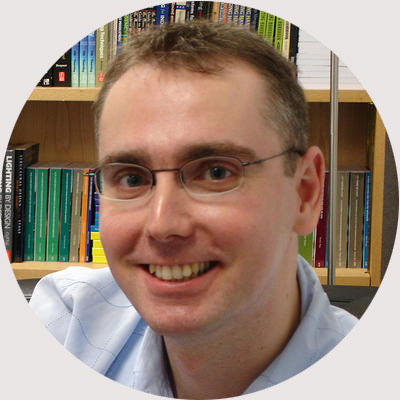
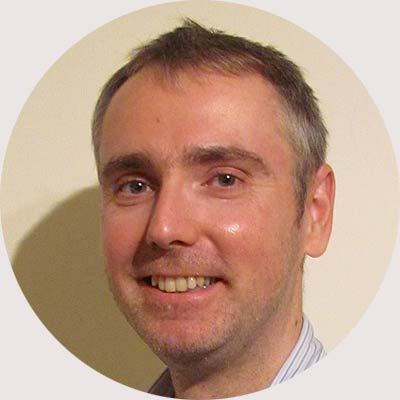
Uploaded new photo of me

diff --git a/PHP Suse/web-content/includes/web.css b/PHP Suse/web-content/includes/web.css
@@ -54,7 +54,7 @@ article { padding: 58px 0 58px 0; background-color: #eae5e5; border-bottom: 5px 
 article section h3 { font-size: 2.5em; font-weight: bold; padding: 0 0 41px 54px; }
 article section h3.image { float: left; width: 400px; height: 400px; padding: 0; }
 article section h3.image span {
-	background: url('/img/Oliver-Kinne.jpg');
+	background-image: url('/img/Oliver-Kinne.jpg');
 	background-size: cover;
 	<!--[if lt IE 9]>
 	/* background image resize fix for IE8 and before */
